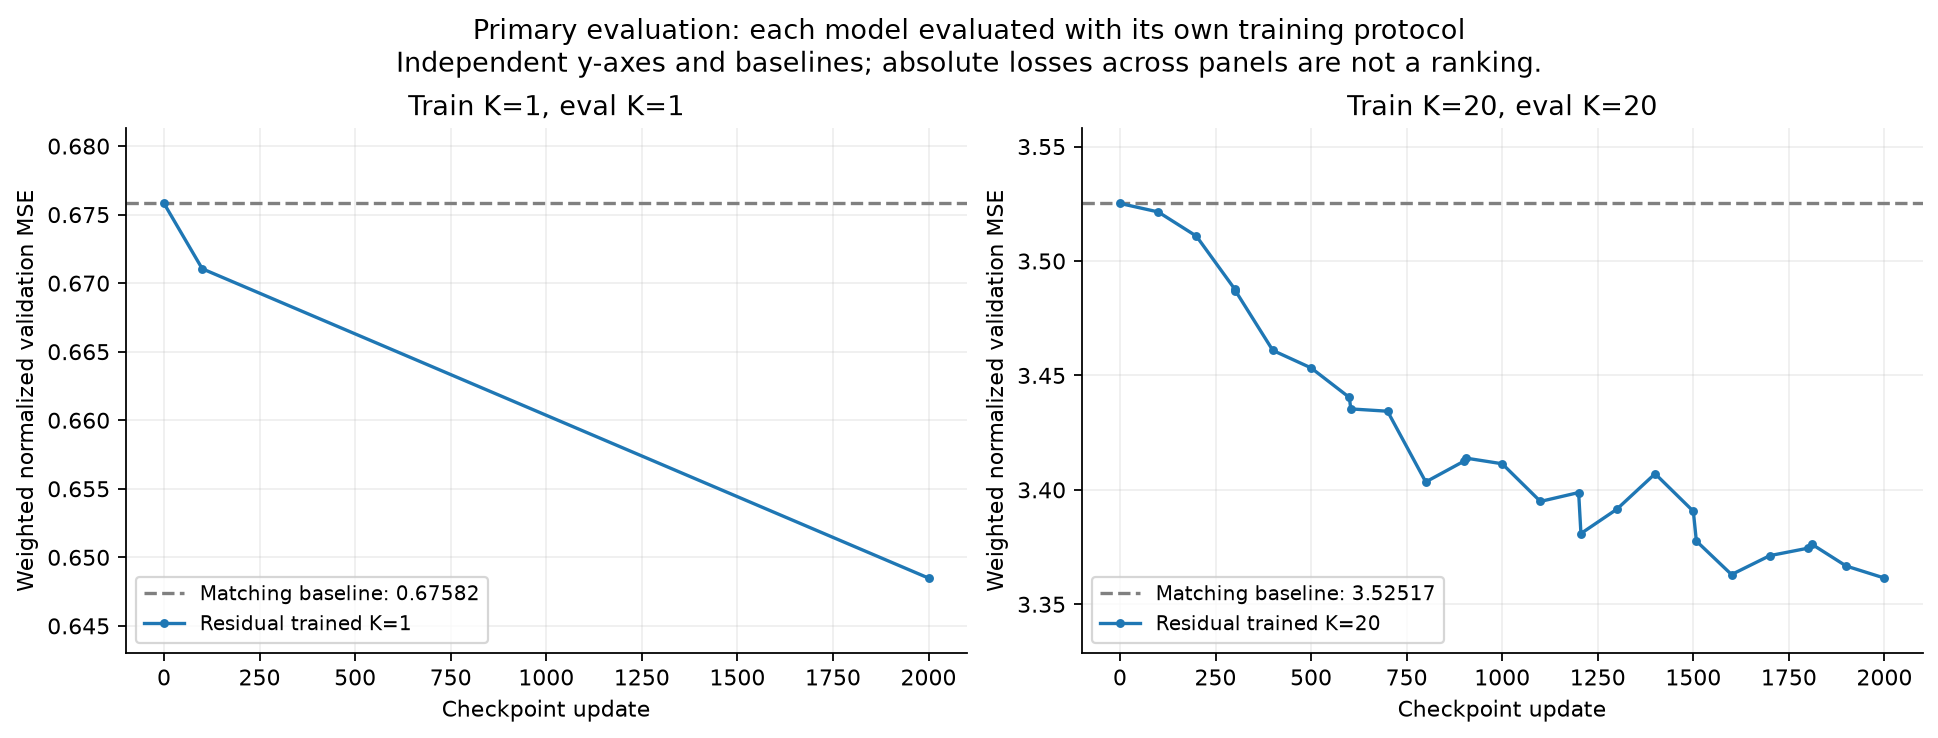
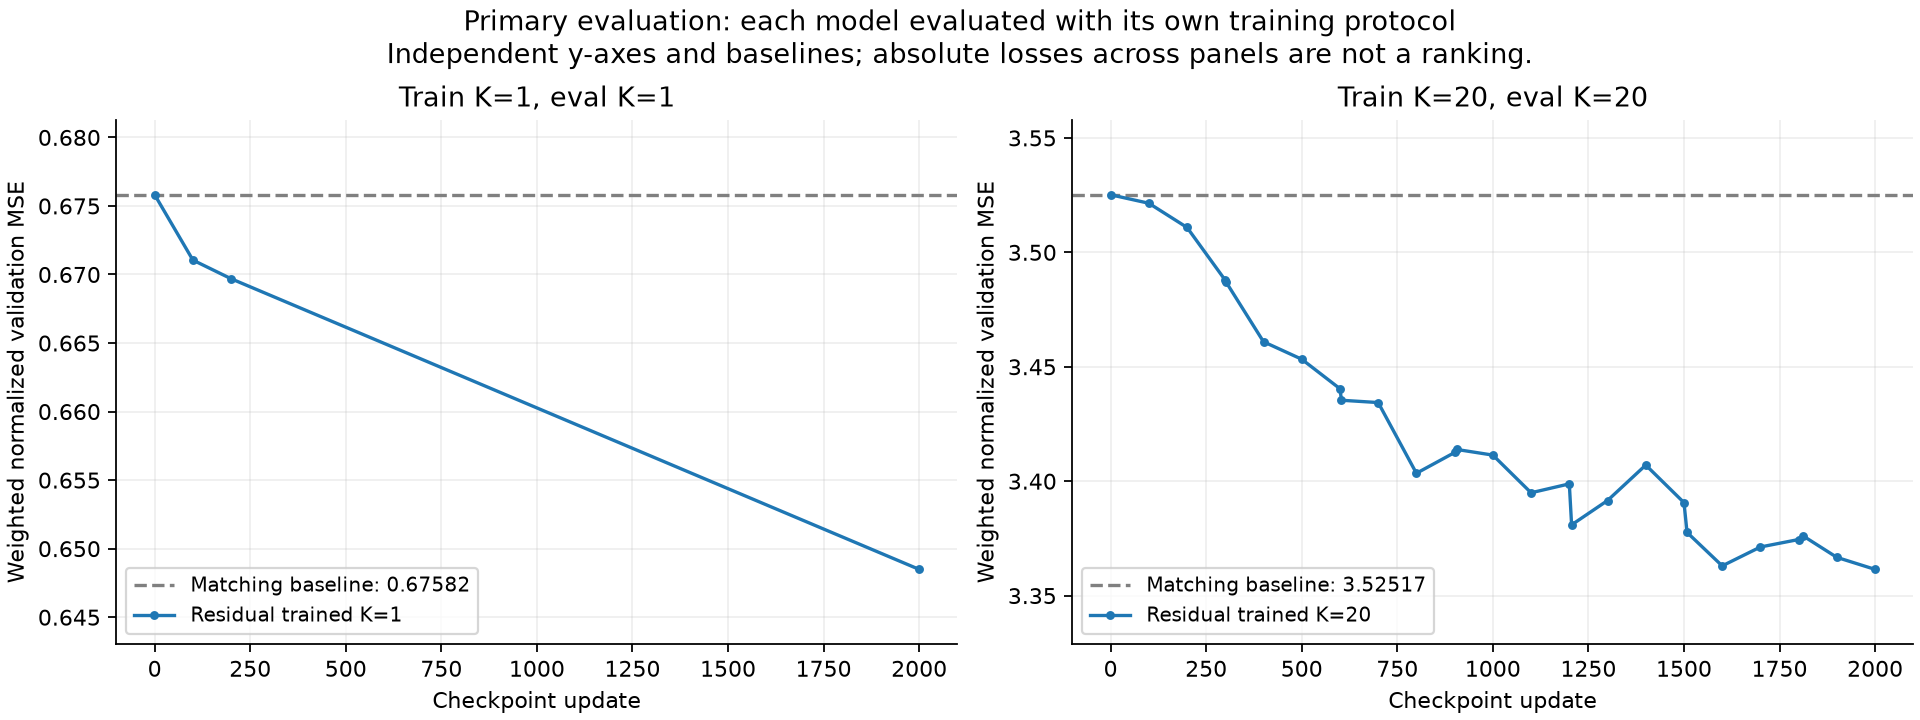
Refresh matched evaluation plots and normalize CSV line endings

diff --git a/experimental/residualmamba_NGCM/report_matched_v2.py b/experimental/residualmamba_NGCM/report_matched_v2.py
@@ -14,7 +14,7 @@ FIELDS=[('temperature','Temperature'),('geopotential','Geopotential'),('u_compon
 
 
 def read(path):return json.loads(path.read_text())
-def save(fig,path):fig.savefig(path,dpi=160,bbox_inches='tight');plt.close(fig)
+def save(fig,path):fig.savefig(path,dpi=160);plt.close(fig)
 def gain(value,baseline):return 100*(1-value/baseline)
 
 
@@ -91,7 +91,7 @@ def report(matched_root,out):
             if d['step']==2000:
                 (out/f'k{k}_matched_step_02000.json').write_text(json.dumps(d,indent=2)+'\n')
     with (out/'matched_eval_losses.csv').open('w',newline='') as f:
-        w=csv.DictWriter(f,fieldnames=list(flat[0]));w.writeheader();w.writerows(flat)
+        w=csv.DictWriter(f,fieldnames=list(flat[0]),lineterminator='\n');w.writeheader();w.writerows(flat)
     (out/'plot-data.json').write_text(json.dumps({'sources':sources,'evaluations':rows},indent=2)+'\n')
     complete=len(rows[1])==27 and len(rows[20])==26
     lines=['# Primary loss v2 results: training-matched evaluation','',

diff --git a/experimental/residualmamba_NGCM/results/v2_matched_20261106/README.md b/experimental/residualmamba_NGCM/results/v2_matched_20261106/README.md
@@ -1,6 +1,6 @@
 # Primary loss v2 results: training-matched evaluation
 
-**Status: K=1: 2/27 matched evaluations complete; K=20: 26/26 complete.**
+**Status: K=1: 3/27 matched evaluations complete; K=20: 26/26 complete.**
 
 The primary analysis evaluates each model using the same input/origin/forecast-horizon protocol as its own training run. K=1 has its own official pretrained NeuralGCM baseline. K=20 has its own baseline. Absolute losses across these different tasks must not be ranked.
 
@@ -35,6 +35,8 @@ The previous [common-tail20 comparison](../v2_comparison_20261106/README.md) is 
 
 
 ## Matched evaluation curves
+
+Only completed checkpoints are shown. Lines connect observations; missing intermediate checkpoints do not imply a measured trend. Step zero is the zero-head official baseline.
 
 ![Separate matched evaluations](matched_eval_loss_vs_checkpoint.png)
 
